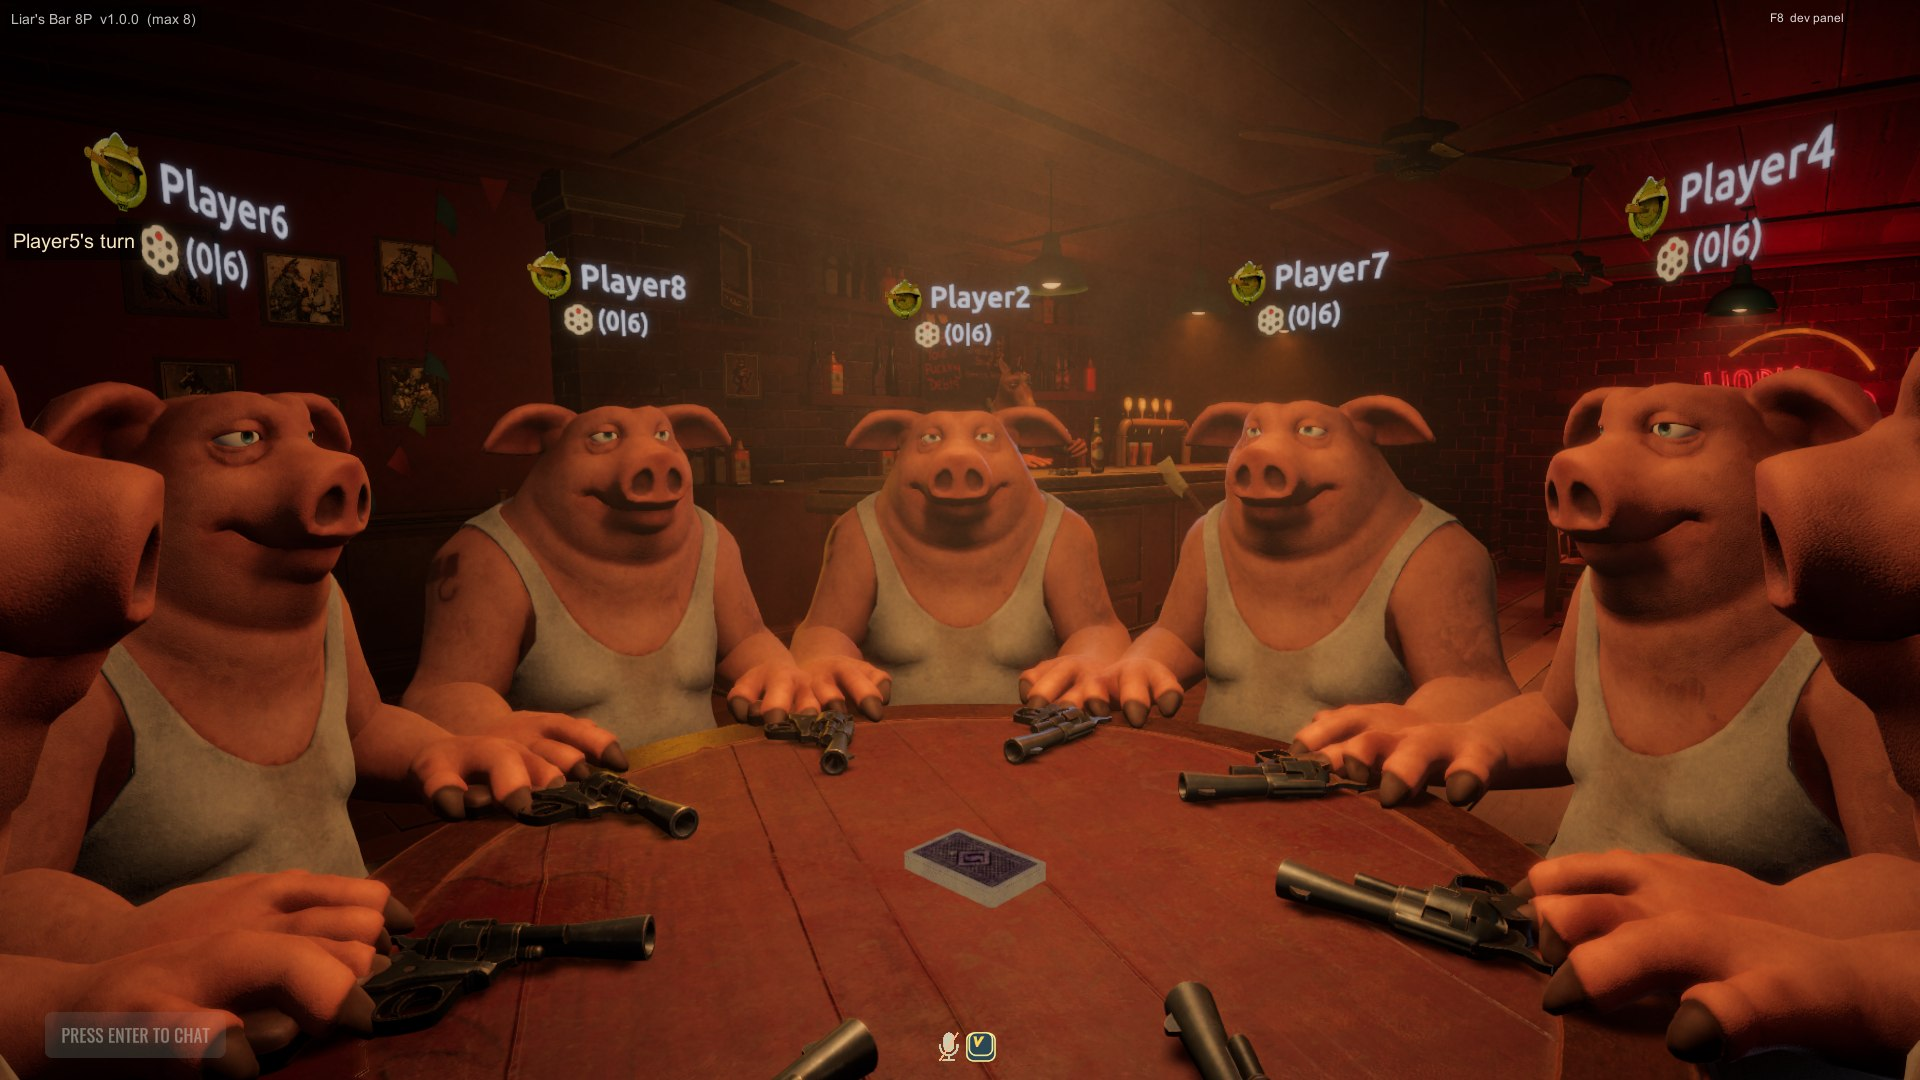
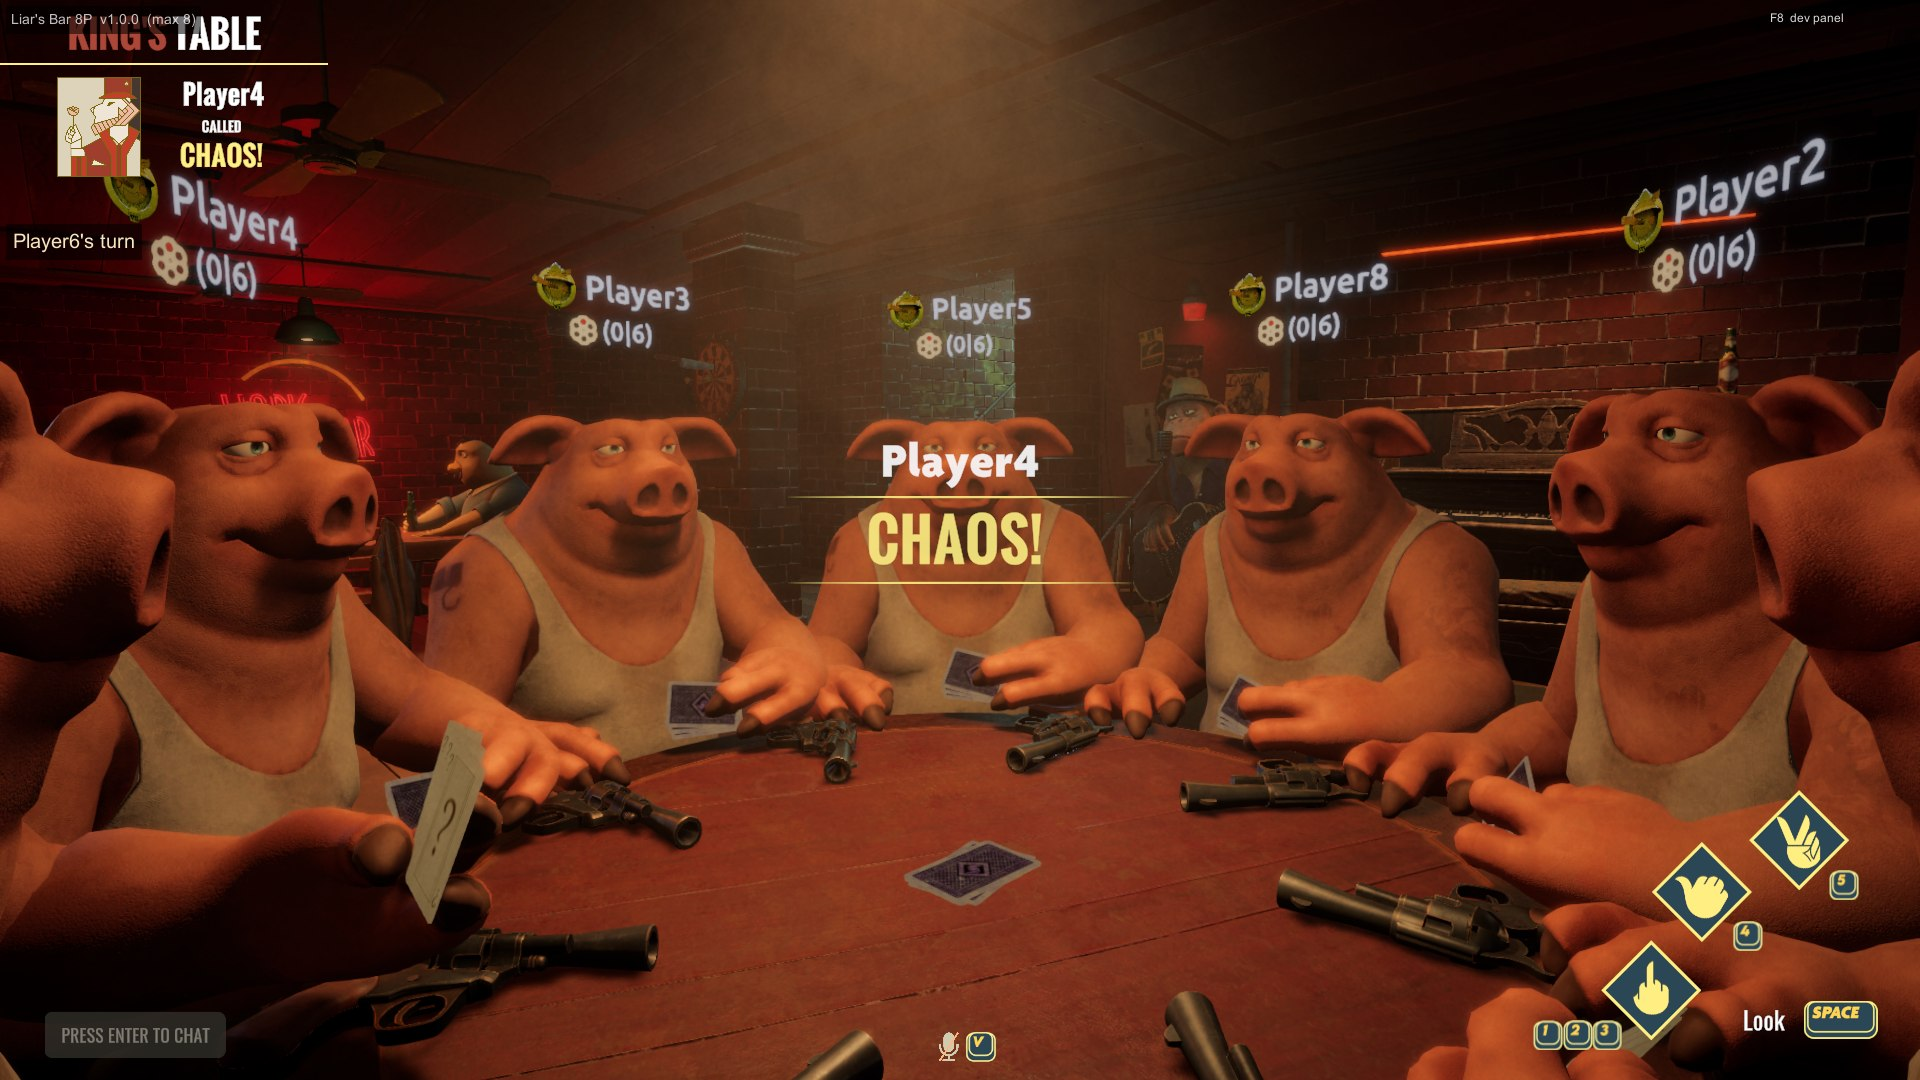
New screenshots for v1.0.0, all from the build being released
Eight players in Liar's Deck, the Chaos deck, Dice, Texas and Spin, plus the
aim readout naming a target at an eight seat table - which is the fix this
release exists for and the one thing a screenshot can show better than a
paragraph.

The lobby shot is seven players waiting on an eighth rather than a full
table. A full lobby exists for about three seconds before the match starts,
and every frame caught at that moment was the loading screen; the caption
says so rather than implying a full table was photographed.

The four screenshots from earlier releases are gone. Every picture on the
page is now from this build, with the version legible in the corner.

diff --git a/README.md b/README.md
@@ -27,10 +27,15 @@ and every player is warned when somebody's build differs.
 Eight players at a table built for four, evenly spaced, each with their name above them and
 whose turn it is in the corner.
 
-The lobby puts the extra four on a second row, pulls the camera back so everyone is in frame,
-and lifts each name plate above the player it belongs to:
+The lobby puts the extra players on a second row, pulls the camera back so everyone is in
+frame, and lifts each name plate above the player it belongs to — the plates hang low beside a
+podium in the shot the lobby was built for, which from further back would leave them around
+everybody's knees:
 
-![The lobby, eight players in two rows](docs/images/lobby-8-players.jpg)
+![The lobby, filling up across two rows](docs/images/lobby-two-rows.jpg)
+
+*(Seven in, waiting on the eighth — the lobby only holds a full table for a few seconds before
+the match starts.)*
 
 It is not only Liar's Deck. The seat ring, the caps, the turn order and the deal are fixed for
 every mode the lobby can reach.
@@ -49,7 +54,15 @@ every mode the lobby can reach.
 
 **The Chaos deck** — where a chaos card stops the round and everyone picks somebody to shoot:
 
-![Eight players in the Chaos deck](docs/images/chaos-deck-8-players.jpg)
+![A chaos card called at eight players](docs/images/chaos-deck-8-players.jpg)
+
+And this is the fix this release exists for. Before it, at eight players, the revolver could
+only be pointed at three fixed chairs — and if you were sitting in seat four or later you could
+not aim at anybody at all. Now every seat can choose any other, and because the game only has
+three aiming animations and never turns anyone to face a particular chair, the mod tells you
+who you have actually picked:
+
+![Aiming at a named player at a table of eight](docs/images/aiming-at-eight.jpg)
 
 *(Every screenshot is from the test harness, where the players are named Player1–Player8.)*
 
